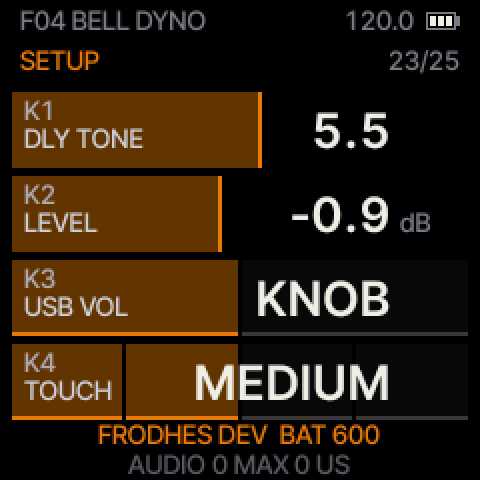
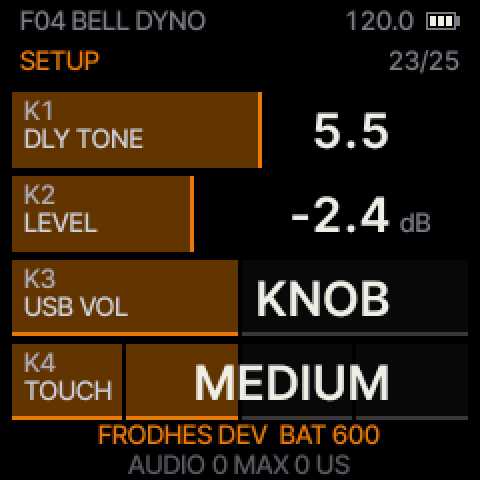
Docs: no effect adds peak (MANUAL phaser / pan / wah / filter / compressor), the changes fragment, screenshots (comp, overview, setup)
Tested: tools/manual_shots.py (host). Not tested on the FM-1.

Changed region(s): [[0.375, 0.3438, 0.4688, 0.5312], [0.625, 0.4062, 0.7188, 0.5], [0.75, 0.4062, 0.8125, 0.5]]

diff --git a/docs/MANUAL.md b/docs/MANUAL.md
@@ -304,7 +304,9 @@ any compressor; back to OFF switches it off). Switching it on or off fades
 over about 46 ms, so it never clicks. The bottom of the page is a gain-reduction meter, as on a hardware compressor: its segments light from 1 dB
 to 30 dB of reduction (scale 3, 6, 10, 20, 30), a bright segment holds the peak for a second, and the number on the
 right is the reduction now in dB. The compressor
-comes first in the chain, right after the piano.
+comes first in the chain, right after the piano. It stays clean on chords: it holds its reduction across a note's
+waveform and lets it go smoothly (about 0.1 s), so it adds no roughness of its own; after a loud chord a soft note
+comes back to full level within about 0.3 s.
 
 ### EQ
 
@@ -382,7 +384,9 @@ clipping.
 | K4 | **LFO** | How far the LFO moves the cutoff (up to ±4 octaves); the LFO itself is set on the LFO page |
 
 On PERFORM, K2 is the filter's cutoff by default. Fully open (LP12 or LP18 at 16 kHz, no resonance, no LFO) the
-sound passes untouched, exactly as with the filter off; turning FREQ down glides into the filter, without a click. The factory presets use the default; your own presets keep what you saved, and so does the
+sound passes untouched, exactly as with the filter off; turning FREQ down glides into the filter, without a click.
+On the low-pass types the input is turned down as the cutoff falls, so a resonant sweep stays near the level of the
+unfiltered sound instead of jumping out on the resonant peak. The factory presets use the default; your own presets keep what you saved, and so does the
 sound the FM-1 was left on. Over MIDI: CC 70 TYPE, 74 cutoff, 71 resonance, 72 LFO amount.
 
 ### TREM/WAH
@@ -391,7 +395,7 @@ sound the FM-1 was left on. Over MIDI: CC 70 TYPE, 74 cutoff, 71 resonance, 72 L
 
 | Knob | Card | What it does |
 | --- | --- | --- |
-| K1 | **EFFECT** | **OFF**, **PAN** (the suitcase piano's stereo vibrato), **TREM** (volume tremolo), **WAH** (touch wah: harder playing opens it; it keeps the sound's level at every DEPTH and RATE, so a closed wah on a high chord or a soft high note is not quieter and a low one not louder; MARIMBA's top octave, whose notes are very short, still comes out a little quieter) |
+| K1 | **EFFECT** | **OFF**, **PAN** (the suitcase piano's stereo vibrato; neither side ever gets louder than the dry sound, even at DEPTH 127), **TREM** (volume tremolo), **WAH** (touch wah: harder playing opens it; it keeps the sound's level at every DEPTH and RATE, so a closed wah on a high chord or a soft high note is not quieter and a low one not louder, and its level make-up keeps a note's attack within 2 dB of its dry peak; MARIMBA's top octave, whose notes are very short, still comes out a little quieter) |
 | K2 | **DEPTH** | How deep |
 | K3 | **RATE** | How fast; on WAH, the resonance (it glides as you turn it, without a click). When synced it shows a note value |
 | K4 | **SHAPE** | Two halves. Up to the middle (0–64): from a smooth sine to a square, choppy pulse. Above it (65–127): an amp's tremolo, the square easing back into a sine: the level falls more slowly than it comes back (at the top the dip takes about two thirds of each cycle), it moves evenly in loudness so a deep setting breathes rather than chopping to silence (the deepest dip stays at −30 dB), and loud playing makes it a little shallower (up to a quarter less depth at full level). On PAN the upper half gives the same slower swing. On WAH the card shows **-**: SHAPE does nothing there and keeps its value for TREM and PAN |
@@ -420,9 +424,11 @@ On **VIBES** the vibraphone's motor is not here but on its last VOICE page, VOIC
 | K3 | **SPEED** | How fast: 0.25–6 Hz (a note value when synced) |
 | K4 | **SYNC** | Free, or locked to the tempo as a note value |
 
-Phaser and chorus are two separate effects and can run together (the phaser feeds the chorus). The phaser keeps the
-level at every DEPTH (a chord's loudness matches the phaser switched off; its notches sweep through the sound, so a
-single note still dips and swells as they pass it; the bass is not lifted) and keeps the sound close to the middle
+Phaser and chorus are two separate effects and can run together (the phaser feeds the chorus). The phaser never
+adds peak: a chord's loudest moments stay within 0.5 dB of the phaser switched off at every DEPTH, so the
+deeper settings (DEPTH from about 48, where the notches cut most) sound 2-3 dB quieter on average rather than louder
+on the peaks; its notches sweep through the sound, so a single note still dips and swells as they pass it; the bass is
+not lifted and keeps the sound close to the middle
 (its two sides 30° apart). The chorus makes the sound wider in stereo, which on headphones sounds bigger; its level is
 set so that it does not also sound louder, and it leaves the bass (below about 200 Hz) as it is, so low notes keep
 their weight.
@@ -660,7 +666,7 @@ DRIVE, FILTER, DELAY and REVERB.
 
 ### SETUP
 
-![SETUP](manual/img/setup.png?v=a310bb0f)
+![SETUP](manual/img/setup.png?v=8392ab2b)
 
 | Knob | Card | What it does |
 | --- | --- | --- |
@@ -1066,8 +1072,9 @@ letting the sound break up. In testing, with every voice struck and every effect
   headphones down instead. Between notes the output is exact silence, so the jack is silent too.
 - **TYPE** changes the whole instrument: try BELL DYNO for glassy ballads and SUITCASE for the classic vibrato with
   the tremolo on PAN.
-- Every effect is set to keep about the same volume when you switch it on; the compressor's MAKEUP and each preset's
-  LEVEL (SETUP) let you fine-tune it.
+- Every effect is set to keep about the same volume when you switch it on, and none adds peak level: switched on,
+  an effect keeps the sound's loudest moments within 2 dB of the dry sound's (the deep phaser settings are quieter
+  instead; an EQ boost or a resonant filter peak you dial in is yours). The compressor's MAKEUP and each preset's LEVEL (SETUP) let you fine-tune it.
 
 ## 12. MIDI
 

diff --git a/docs/changes/fx-no-added-peak.md b/docs/changes/fx-no-added-peak.md
@@ -1,0 +1,31 @@
+## Changes
+- **The output level is 0.9.9's again** (the default LEVEL and the limiter's threshold, LIM_T 24000): the factory
+  presets F01-F19 within 0.5 dB of 0.9.9 by loudness (F16, below, excepted), on the FM-1, the Move and the plugin.
+- **No effect adds peak level.** Each effect switched on keeps the loudest moments within 2 dB of the dry sound
+  (`tools/fx_pristine.py`'s new peak check), so none of them drives the output limiter:
+  - PHASER: its level trimmed by DEPTH so a chord's peak stays within 0.5 dB of the phaser off (single notes within
+    2 dB); DEPTH 0 matches by loudness, the deep settings are 2-3 dB quieter on average. The sound itself is unchanged
+    (a pure gain).
+  - PAN at DEPTH 127: neither side goes above unity (it had a +3 dB side peak).
+  - Touch wah: the make-up follows the input's and output's peaks and waits for the attack to pass, so it no longer
+    overshoots a note's onset (+1.6 .. +1.8 dB at most; at RATE 127 the peak 5.3 dB lower than before).
+  - Filter LP12 / LP18: resonance gain compensation as the cutoff falls (a resonant sweep stays within about 1 dB of
+    the unfiltered level).
+  - ANA delay: on a silent line its time no longer glides from the last setting, which had bunched the first repeats
+    together (a chord's peak +3.1 dB before, +1.7 now; the echoes as loud as DIG's).
+  - HQ HALL (Move / plugin) at MIX 127: the switch between its quiet and loud paths moved lower, so its non-linear
+    residual falls from -73.7 to -79.9 dBFS.
+- **The compressor is clean on chords.** It holds its detector across a note's cycle, smooths its reduction's release
+  (about 0.1 s) and interpolates its gain: a v127 chord's intermodulation at F01's settings -68 .. -79 dB (was -46 ..
+  -56; the dry engine -76 .. -86). A soft note right after a loud chord comes back to full level within about 0.3 s;
+  loud sustained chords sit about 0.8 dB lower.
+- Factory presets with effects re-levelled for the quieter effects: F05 +7, F09 +14, F10 +2, F11 +21, F18 +4 LEVEL
+  steps (the Move's preset records the same); U04 +3, U05 +9, U07 +10.
+- F16 stays 4.7 dB under 0.9.9: 0.9.9 reached its level only through the limiter, and matching it now would clip.
+
+## Tested
+- Host: `tests/py/test_fx_pristine.py` (OPEN list empty on the one-core, two-core and HQ builds, presets included),
+  the new `tests/py/test_comp_clean.py` (fails before, passes after), `make test` (65 scripts), `make test-c1`, the
+  full `make pytest`, `tests/py/test_rev_inf.py`, `tools/gen_move_presets.py --check`. Character before / after by
+  level-normalised critical-band spectra (the phaser, pan, filter and hall shapes unchanged; the wah within 0.2 dB).
+- Not tested on the FM-1 (the user was playing it).
